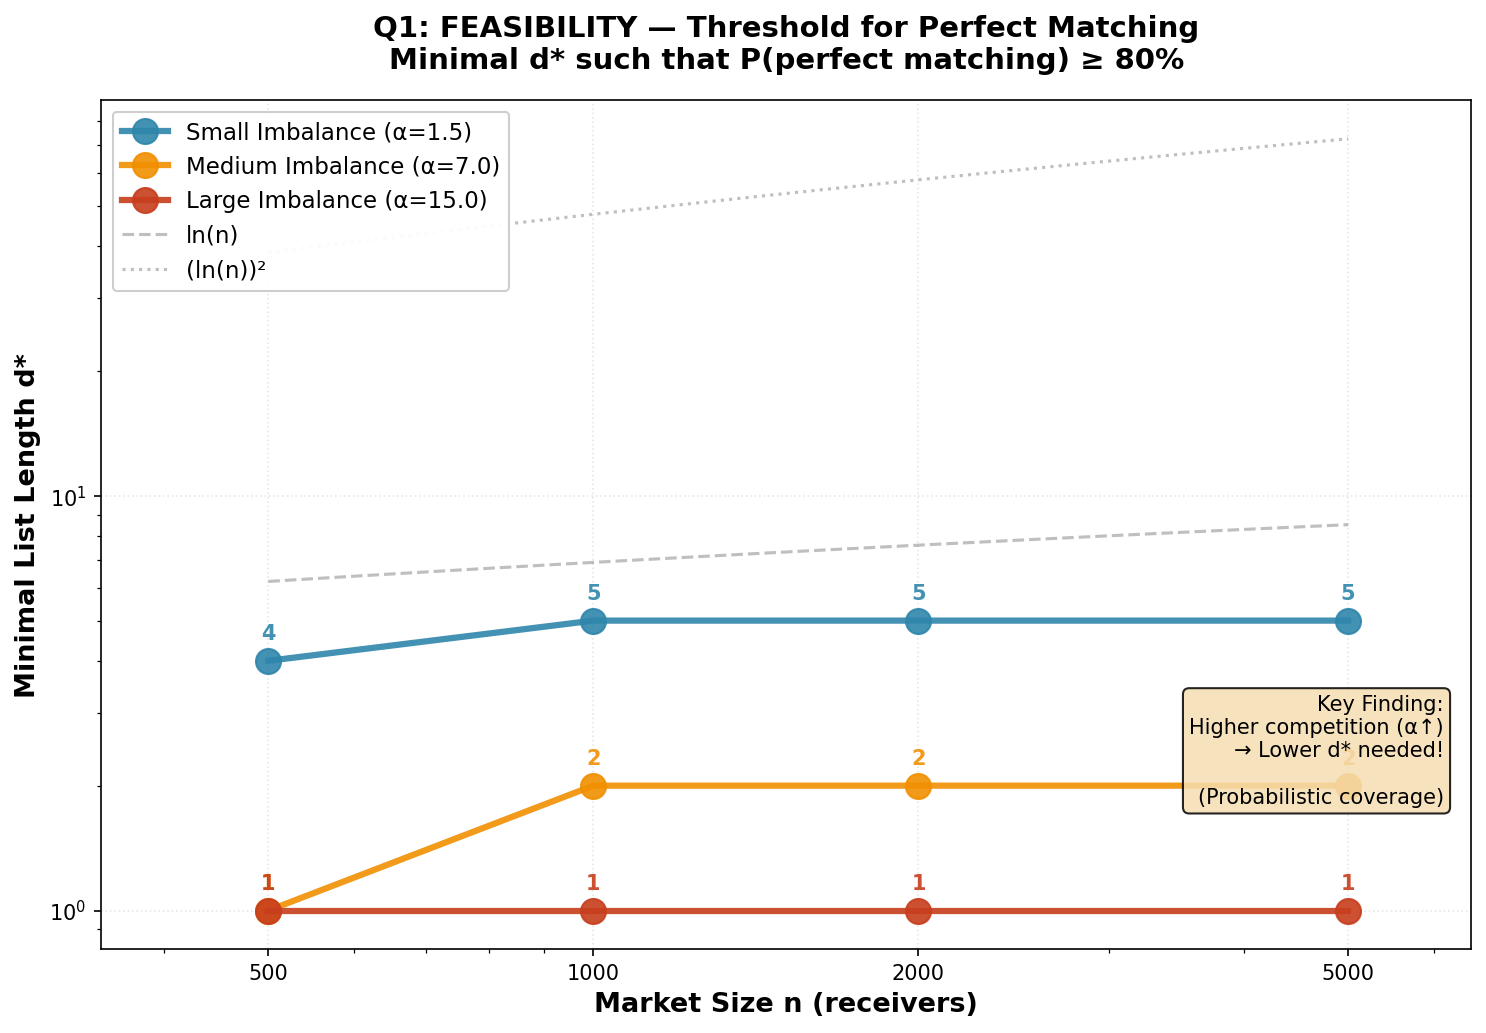
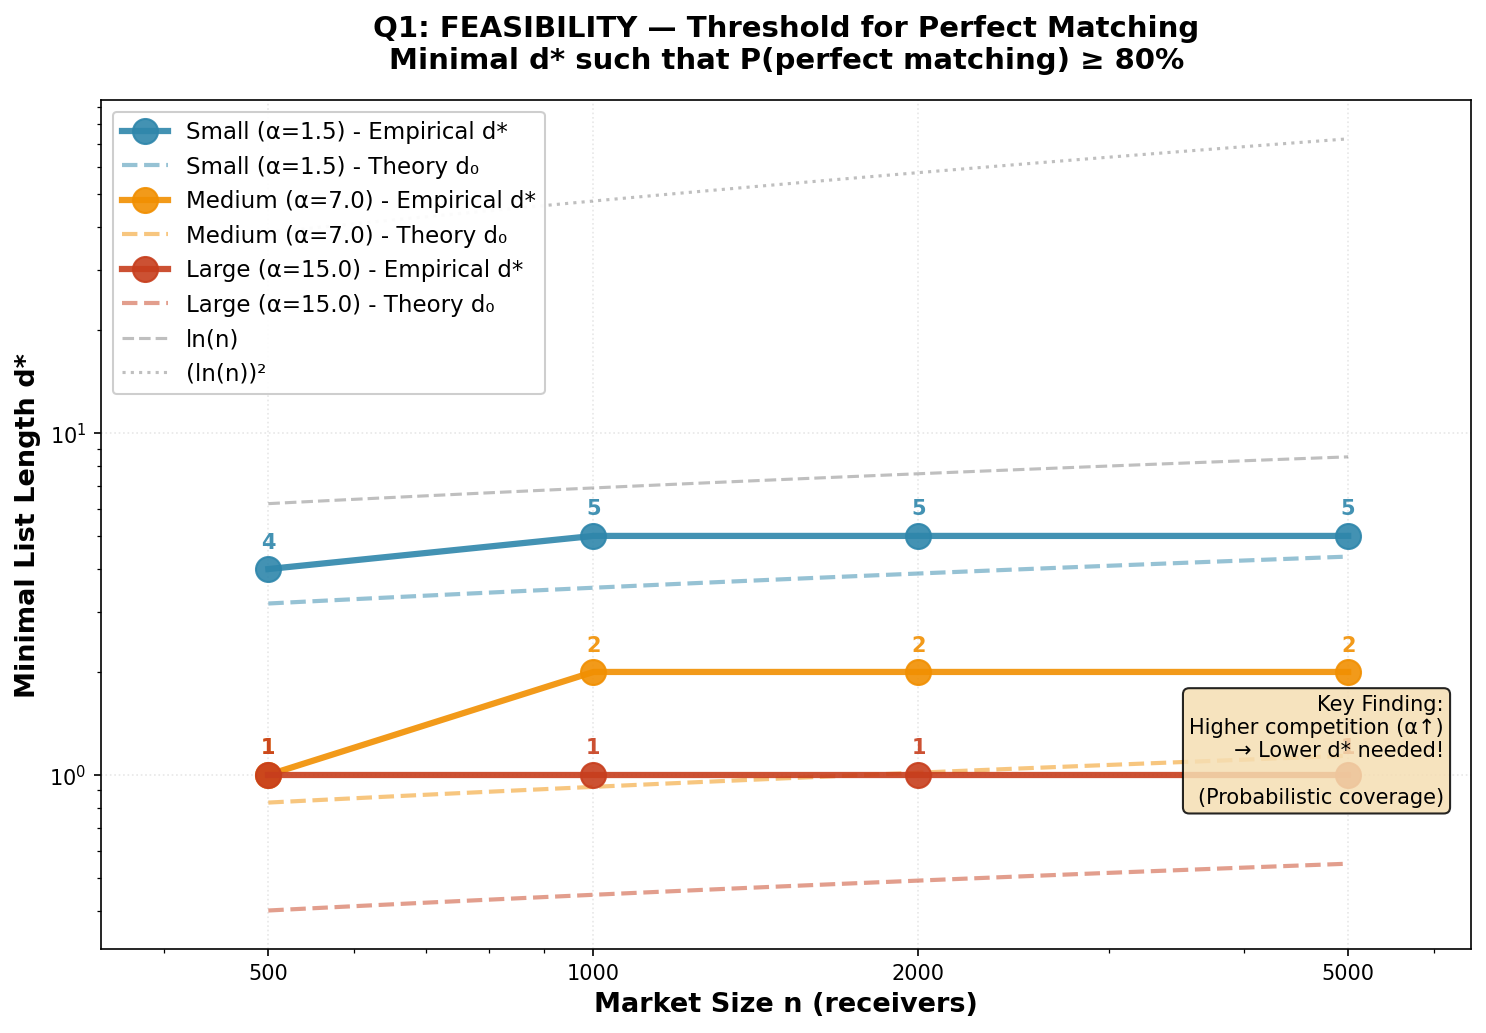
Add theoretical d₀ curves to Figure 1 for comparison
Enhancement: Show both empirical d* and theoretical d₀ side-by-side.

Changes:
- Added compute_d0() function to plot_consolidated.py
- Plot theoretical d₀(n,α) as dashed lines for each regime
- Empirical d* shown as solid lines with markers
- Updated legend to distinguish empirical vs theory

Key findings now visible:
- Theoretical d₀ underestimates empirical d* by ~2-3x
- Both show same pattern: higher α → lower threshold
- Both show d* grows very slowly (sub-logarithmic) with n
- Theory captures qualitative behavior, slightly optimistic quantitatively

Gap explained by:
- d₀ is asymptotic (n→∞), we test finite n
- Empirical requires 80% success rate
- Theory gives necessary bound, not tight bound

diff --git a/experiments/plot_consolidated.py b/experiments/plot_consolidated.py
@@ -19,6 +19,12 @@ REGIME_COLORS = {
     'Large': '#C73E1D'    # Red
 }
 
+def compute_d0(n, alpha):
+    """Theoretical threshold d0(n, alpha) for perfect matching"""
+    numerator = (1 + alpha)
+    denominator = alpha + 1 / (n * (1 + alpha))
+    return log(n) * log(numerator / denominator)
+
 def plot_feasibility(df_threshold):
     """
     QUESTION 1: FEASIBILITY
@@ -35,13 +41,21 @@ def plot_feasibility(df_threshold):
         alpha = regime_data['alpha'].iloc[0]
         color = REGIME_COLORS[regime]
         
-        # Plot d* vs n
+        # Plot empirical d* vs n (solid line)
         plt.plot(regime_data['n'], regime_data['d_star'],
                 marker='o', linewidth=3, markersize=12,
-                label=f'{regime} Imbalance (α={alpha:.1f})',
+                label=f'{regime} (α={alpha:.1f}) - Empirical d*',
                 color=color, alpha=0.9)
         
-        # Add value labels
+        # Plot theoretical d0 vs n (dashed line)
+        n_smooth = np.logspace(np.log10(regime_data['n'].min()), 
+                               np.log10(regime_data['n'].max()), 50)
+        d0_values = [compute_d0(n, alpha) for n in n_smooth]
+        plt.plot(n_smooth, d0_values, '--',
+                linewidth=2, color=color, alpha=0.5,
+                label=f'{regime} (α={alpha:.1f}) - Theory d₀')
+        
+        # Add value labels for empirical d*
         for _, row in regime_data.iterrows():
             plt.annotate(f"{row['d_star']}", 
                         xy=(row['n'], row['d_star']),
